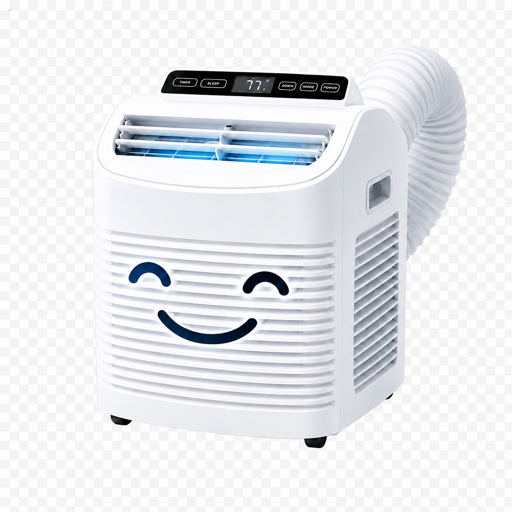
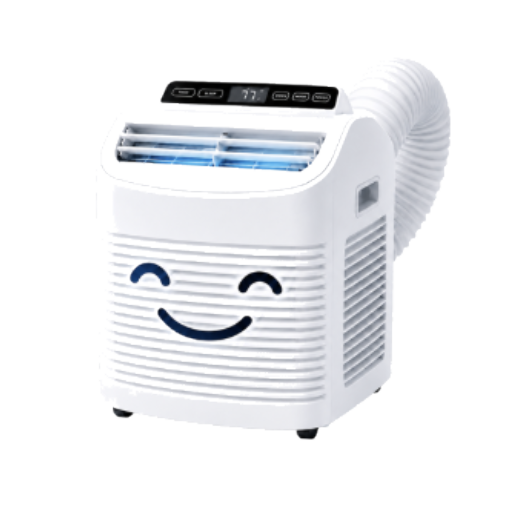
Fix transparent picon rendering

Changed region(s): [[0.2188, 0.0938, 0.9375, 0.875], [0.2188, 0.125, 0.75, 0.375], [0.7812, 0.1875, 0.8125, 0.2188]]

diff --git a/CHANGELOG.md b/CHANGELOG.md
@@ -4,11 +4,27 @@ All notable changes to this project will be documented in this file.
 
 This project follows a simple Keep a Changelog-style format.
 
+## [0.2.2] - 2026-06-29
+
+### Fixed
+
+- Rebuilt the smiling Compact 9000 BTU picon from a clean source image so the
+  checkerboard background is no longer baked into the PNG.
+- Kept the picon small in the GitHub README heading instead of rendering it as a
+  large standalone image.
+- Updated the bundled entity picon and local HACS brand icon with real alpha
+  transparency.
+
+### Unchanged
+
+- No runtime behavior changed.
+
 ## [0.2.1] - 2026-06-29
 
 ### Documentation
 
-- Added the smiling Compact 9000 BTU picon to the GitHub README.
+- Added the smiling Compact 9000 BTU picon to the GitHub README heading.
+- Restored real transparency for the bundled picon PNG.
 
 ### Unchanged
 

diff --git a/README.md b/README.md
@@ -1,8 +1,9 @@
-# Compact 9000 BTU IR for Home Assistant
+<h1>
+  <img src="docs/picon.png" alt="Smiling Compact 9000 BTU AC" width="42" />
+  Compact 9000 BTU IR for Home Assistant
+</h1>
 
 ![Compact 9000 BTU IR](docs/hero.png)
-
-![Smiling Compact 9000 BTU AC picon](docs/picon.png)
 
 Home Assistant custom integration that adds a Compact 9000 BTU assumed-state
 climate entity and the `compact_9000_btu_ir` service domain for portable air